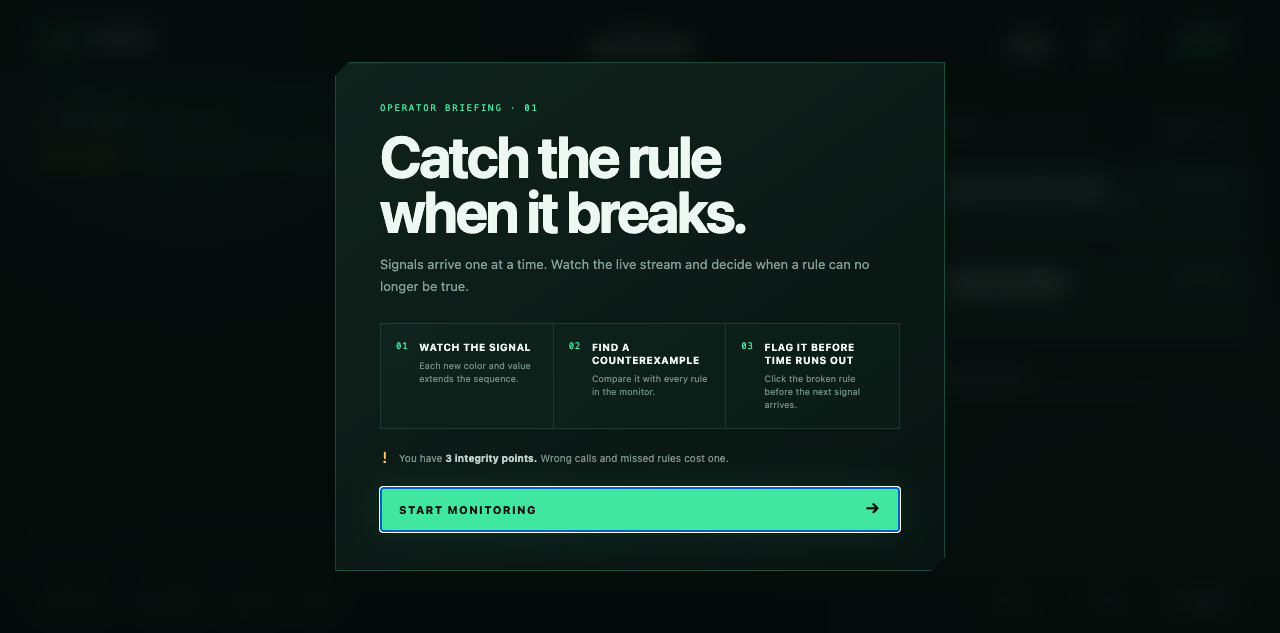
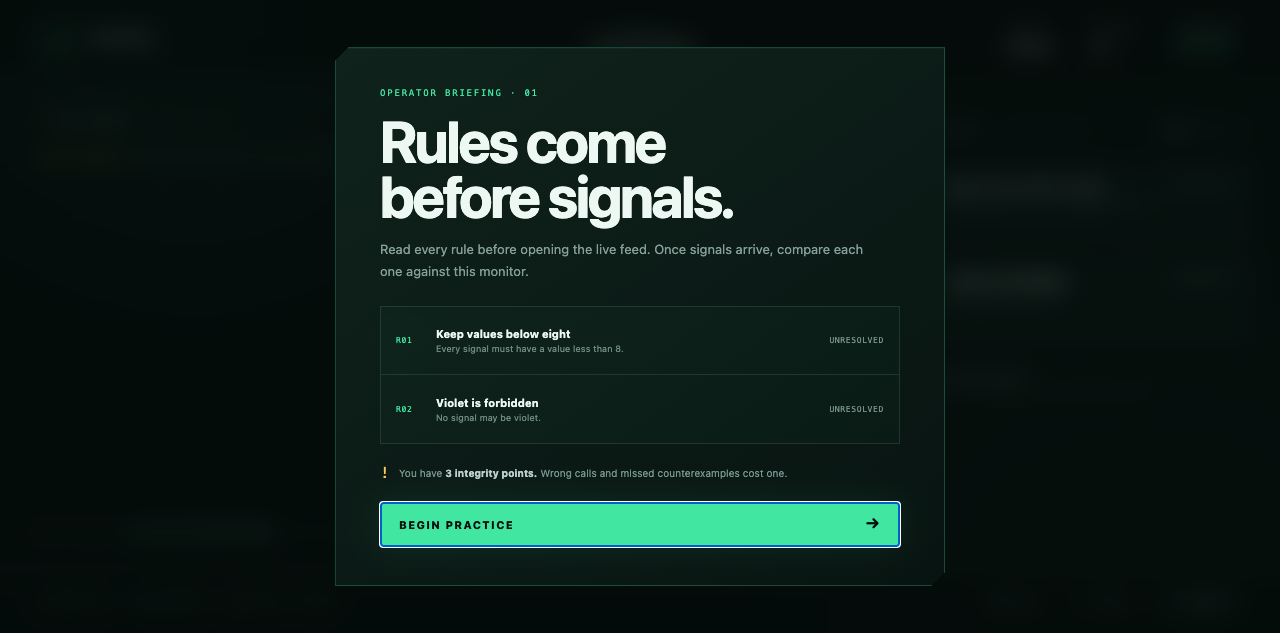
Make counterexamples clickable signals

diff --git a/aug8/src/main.tsx b/aug8/src/main.tsx
@@ -29,6 +29,7 @@ declare global {
     __SIGNAL_SEQUENCE__?: {
       getState: () => PlaytestState;
       flag: (ruleId: string) => boolean;
+      clickSignal: (index: number) => boolean;
       pause: (value?: boolean) => void;
       setSpeed: (multiplier: number) => void;
       advance: () => void;
@@ -71,12 +72,12 @@ function useSound(enabled: boolean) {
   }, [enabled]);
 }
 
-function SignalMark({ signal }: { signal: Signal }) {
+function SignalMark({ signal, onClick, resolution }: { signal: Signal; onClick: () => void; resolution?: Answer }) {
   return (
-    <div className="signal-mark" style={{ '--signal': signal.hex } as CSSVars}>
-      <span className="signal-core">{signal.value}</span>
-      <span className="signal-name">{signal.color}</span>
-    </div>
+    <button className={`signal-mark ${resolution ?? ''}`} style={{ '--signal': signal.hex } as CSSVars} onClick={onClick} aria-label={`${signal.color} ${signal.value}${resolution ? `, ${resolution}` : ''}`}>
+      <span className="signal-core">{resolution === 'caught' ? '✓' : resolution === 'missed' ? '×' : signal.value}</span>
+      <span className="signal-name">{signal.color}{resolution ? ` · ${resolution}` : ''}</span>
+    </button>
   );
 }
 
@@ -95,18 +96,15 @@ interface RuleCardProps {
   prefix: Signal[];
   answered?: Answer;
   showLtl: boolean;
-  onFlag: (rule: Rule) => void;
   index: number;
 }
 
-function RuleCard({ rule, prefix, answered, showLtl, onFlag, index }: RuleCardProps) {
+function RuleCard({ rule, prefix, answered, showLtl, index }: RuleCardProps) {
   const status = rule.evaluate(prefix);
   const visibleStatus = status === 'satisfied' ? 'satisfied' : 'possible';
   return (
-    <button
+    <div
       className={`rule-card ${visibleStatus} ${answered ?? ''}`}
-      onClick={() => onFlag(rule)}
-      disabled={Boolean(answered)}
       style={{ '--delay': `${index * 70}ms` } as CSSVars}
       aria-label={`${rule.title}. ${answered ? 'resolved' : visibleStatus}`}
       data-rule-id={rule.id}
@@ -118,37 +116,72 @@ function RuleCard({ rule, prefix, answered, showLtl, onFlag, index }: RuleCardPr
         {showLtl && <code>{rule.ltl}</code>}
       </span>
       <StatusPill status={status} answered={answered} />
-    </button>
+    </div>
   );
 }
 
 function TutorialPanel({ onStart }: { onStart: () => void }) {
+  const [practiceStarted, setPracticeStarted] = useState(false);
+  const [practiceFlags, setPracticeFlags] = useState<string[]>([]);
+  const practiceRules = levels[0].rules;
+  const practiceComplete = practiceFlags.length === practiceRules.length;
+
+  const flagPracticeRule = (id: string) => {
+    setPracticeFlags((old) => old.includes(id) ? old : [...old, id]);
+  };
+
   return (
     <div className="overlay tutorial-overlay">
       <section className="modal tutorial-modal" role="dialog" aria-modal="true" aria-labelledby="tutorial-title">
-        <span className="eyebrow">OPERATOR BRIEFING · 01</span>
-        <h1 id="tutorial-title">Catch the rule<br />when it breaks.</h1>
-        <p>Signals arrive one at a time. Watch the live stream and decide when a rule can no longer be true.</p>
+        <span className="eyebrow">OPERATOR BRIEFING · {practiceStarted ? '02' : '01'}</span>
+        <h1 id="tutorial-title">{practiceStarted ? <>Catch both<br />counterexamples.</> : <>Rules come<br />before signals.</>}</h1>
+        <p>{practiceStarted
+          ? 'Practice is untimed. Each signal below breaks one rule—click the offending signals.'
+          : 'Read every rule before opening the live feed. Once signals arrive, compare each one against this monitor.'}</p>
 
-        <div className="tutorial-steps">
-          <div className="tutorial-step">
-            <span className="step-number">01</span>
-            <div><b>Watch the signal</b><small>Each new color and value extends the sequence.</small></div>
+        {!practiceStarted ? (
+          <div className="tutorial-rule-preview">
+            {practiceRules.map((rule, index) => (
+              <div className="preview-rule" key={rule.id}>
+                <span>R{String(index + 1).padStart(2, '0')}</span>
+                <div><b>{rule.title}</b><small>{rule.detail}</small></div>
+                <i>UNRESOLVED</i>
+              </div>
+            ))}
           </div>
-          <div className="tutorial-step">
-            <span className="step-number">02</span>
-            <div><b>Find a counterexample</b><small>Compare it with every rule in the monitor.</small></div>
+        ) : (
+          <div className="practice-board">
+            <div className="practice-signals" aria-label="Practice signals">
+              <span>CLICK THE OFFENDING SIGNALS</span>
+              {practiceRules.map((rule, index) => {
+                const caught = practiceFlags.includes(rule.id);
+                const color = index === 0 ? 'cyan' : 'violet';
+                return (
+                  <React.Fragment key={rule.id}>
+                    {index > 0 && <i>+</i>}
+                    <button className={`practice-signal ${color} ${caught ? 'caught' : ''}`} onClick={() => flagPracticeRule(rule.id)} disabled={caught}>
+                      <b>{caught ? '✓' : index === 0 ? '9' : '5'}</b><small>{color.toUpperCase()}{caught ? ' · CAUGHT' : ''}</small>
+                    </button>
+                  </React.Fragment>
+                );
+              })}
+            </div>
+            <div className="practice-rule-reminder">
+              {practiceRules.map((rule, index) => <span key={rule.id}><i>R{String(index + 1).padStart(2, '0')}</i> {rule.title}</span>)}
+            </div>
           </div>
-          <div className="tutorial-step">
-            <span className="step-number">03</span>
-            <div><b>Flag it before time runs out</b><small>Click the broken rule before the next signal arrives.</small></div>
-          </div>
-        </div>
+        )}
 
-        <div className="tutorial-warning"><span>!</span><p>You have <b>3 integrity points.</b> Wrong calls and missed rules cost one.</p></div>
-        <button className="primary-button tutorial-start" onClick={onStart} autoFocus>
-          Start monitoring <span>→</span>
-        </button>
+        <div className="tutorial-warning"><span>{practiceComplete ? '✓' : '!'}</span><p>{practiceStarted ? practiceComplete ? <><b>Training clear.</b> The live sequence will be timed.</> : <>No timer yet—inspect the rules, then <b>click both offending signals.</b></> : <>You have <b>3 integrity points.</b> Wrong calls and missed counterexamples cost one.</>}</p></div>
+        {!practiceStarted ? (
+          <button className="primary-button tutorial-start" onClick={() => setPracticeStarted(true)} autoFocus>
+            Begin practice <span>→</span>
+          </button>
+        ) : (
+          <button className="primary-button tutorial-start" onClick={onStart} disabled={!practiceComplete}>
+            {practiceComplete ? 'Start live sequence' : `Catch ${practiceRules.length - practiceFlags.length} more`} <span>→</span>
+          </button>
+        )}
       </section>
     </div>
   );
@@ -187,7 +220,7 @@ function App() {
   const [muted, setMuted] = useState(false);
   const [speedIndex, setSpeedIndex] = useState(1);
   const [paused, setPaused] = useState(false);
-  const [message, setMessage] = useState('Signal received — click a rule when it becomes impossible');
+  const [message, setMessage] = useState('Signal received — click the signal that breaks a rule');
   const level = levels[levelIndex];
   const playSound = useSound(!muted);
   const live = useRef({ prefix, answered, lives, nextIndex });
@@ -205,7 +238,7 @@ function App() {
     setLives(3);
     setStreak(0);
     setPaused(false);
-    setMessage('Signal received — click a rule when it becomes impossible');
+    setMessage('Signal received — click the signal that breaks a rule');
     setPhase('running');
     if (resetScore) setScore(0);
   }, []);
@@ -256,26 +289,32 @@ function App() {
     return () => window.clearTimeout(timer);
   }, [started, phase, paused, nextIndex, duration, advanceSequence]);
 
-  const flagRule = useCallback((rule: Rule) => {
-    if (!started || phase !== 'running' || answered[rule.id]) return false;
-    const status = rule.evaluate(prefix);
-    if (status === 'broken') {
-      const bonus = 100 + streak * 25;
-      setAnswered((old) => ({ ...old, [rule.id]: 'caught' }));
+  const flagSignal = useCallback((signalIndex: number) => {
+    if (!started || phase !== 'running' || signalIndex < 0 || signalIndex >= prefix.length) return false;
+    const throughSignal = prefix.slice(0, signalIndex + 1);
+    const beforeSignal = prefix.slice(0, signalIndex);
+    const brokenHere = level.rules.filter((rule) =>
+      !answered[rule.id]
+      && rule.evaluate(throughSignal) === 'broken'
+      && rule.evaluate(beforeSignal) !== 'broken');
+
+    if (brokenHere.length) {
+      const bonus = brokenHere.reduce((total, _, index) => total + 100 + (streak + index) * 25, 0);
+      setAnswered((old) => ({ ...old, ...Object.fromEntries(brokenHere.map((rule) => [rule.id, 'caught' as const])) }));
       setScore((old) => old + bonus);
-      setStreak((old) => old + 1);
-      setMessage(`Counterexample caught  +${bonus}`);
+      setStreak((old) => old + brokenHere.length);
+      setMessage(`${brokenHere.length > 1 ? `${brokenHere.length} counterexamples` : 'Counterexample'} caught  +${bonus}`);
       playSound('correct');
       return true;
     }
     const remaining = lives - 1;
     setLives(remaining);
     setStreak(0);
-    setMessage(status === 'satisfied' ? 'Rule is already guaranteed' : 'Rule can still be true');
+    setMessage('That signal breaks no new rule');
     playSound('error');
     if (remaining <= 0) setPhase('gameover');
     return false;
-  }, [answered, lives, phase, playSound, prefix, started, streak]);
+  }, [answered, level.rules, lives, phase, playSound, prefix, started, streak]);
 
   const handleResult = () => {
     if (phase === 'gameover') loadLevel(levelIndex);
@@ -299,8 +338,11 @@ function App() {
       }),
       flag: (ruleId: string) => {
         const rule = level.rules.find(({ id }) => id === ruleId);
-        return rule ? flagRule(rule) : false;
+        if (!rule) return false;
+        const breakingIndex = prefix.findIndex((_, index) => rule.evaluate(prefix.slice(0, index + 1)) === 'broken');
+        return breakingIndex >= 0 ? flagSignal(breakingIndex) : false;
       },
+      clickSignal: flagSignal,
       pause: (value?: boolean) => setPaused((old) => value ?? !old),
       setSpeed: (multiplier: number) => {
         const closest = SPEEDS.reduce((best, speed, index) =>
@@ -315,7 +357,7 @@ function App() {
       start: () => setStarted(true),
     });
     window.__SIGNAL_SEQUENCE__ = api;
-  }, [advanceSequence, answered, flagRule, level, levelIndex, lives, loadLevel, paused, phase, prefix, score, started, streak]);
+  }, [advanceSequence, answered, flagSignal, level, levelIndex, lives, loadLevel, paused, phase, prefix, score, started, streak]);
 
   const statuses = useMemo(() => level.rules.map((rule) => rule.evaluate(prefix)), [level, prefix]);
   const unresolvedCount = statuses.filter((status, index) =>
@@ -348,7 +390,17 @@ function App() {
                   {i > 0 && <span className="timeline-link" />}
                   <div className="signal-slot">
                     <span className="signal-order">t{i}</span>
-                    <SignalMark signal={signal} />
+                    <SignalMark
+                      signal={signal}
+                      onClick={() => flagSignal(i)}
+                      resolution={level.rules.some((rule) => {
+                        const breaksHere = rule.evaluate(prefix.slice(0, i + 1)) === 'broken' && rule.evaluate(prefix.slice(0, i)) !== 'broken';
+                        return breaksHere && answered[rule.id] === 'caught';
+                      }) ? 'caught' : level.rules.some((rule) => {
+                        const breaksHere = rule.evaluate(prefix.slice(0, i + 1)) === 'broken' && rule.evaluate(prefix.slice(0, i)) !== 'broken';
+                        return breaksHere && answered[rule.id] === 'missed';
+                      }) ? 'missed' : undefined}
+                    />
                   </div>
                 </React.Fragment>
               ))}
@@ -372,10 +424,10 @@ function App() {
           </div>
           <div className="rule-list">
             {level.rules.map((rule, index) => (
-              <RuleCard key={rule.id} rule={rule} prefix={prefix} answered={answered[rule.id]} showLtl={showLtl} onFlag={flagRule} index={index} />
+              <RuleCard key={rule.id} rule={rule} prefix={prefix} answered={answered[rule.id]} showLtl={showLtl} index={index} />
             ))}
           </div>
-          <div className="monitor-tip"><span>!</span><p><b>See a counterexample?</b> Click the impossible rule before the next signal arrives.</p></div>
+          <div className="monitor-tip"><span>!</span><p><b>See a counterexample?</b> Click the offending signal before the next one arrives.</p></div>
         </aside>
       </section>
 

diff --git a/aug8/src/styles.css b/aug8/src/styles.css
@@ -63,7 +63,12 @@ body::before {
 .timeline { min-width: 100%; padding: 50px 18px 30px; display: flex; align-items: center; justify-content: center; }
 .signal-slot { position: relative; flex: 0 0 84px; animation: signal-in .38s cubic-bezier(.2,.85,.3,1.25) both; }
 .signal-order { position: absolute; top: -29px; left: 0; width: 100%; text-align: center; color: #48645c; font: 10px 'DM Mono', monospace; }
-.signal-mark { --signal: #41e6a1; display: flex; flex-direction: column; align-items: center; gap: 12px; }
+.signal-mark { --signal: #41e6a1; padding: 0; display: flex; flex-direction: column; align-items: center; gap: 12px; border: 0; background: transparent; cursor: pointer; transition: transform .16s; }
+.signal-mark:hover { transform: translateY(-4px); }
+.signal-mark:focus-visible { outline: 1px solid var(--green); outline-offset: 7px; }
+.signal-mark.caught .signal-core { color: #062117; box-shadow: 0 0 0 5px rgba(65,230,161,.15), 0 0 32px rgba(65,230,161,.35); }
+.signal-mark.missed .signal-core { color: #220906; background: var(--red); box-shadow: 0 0 0 5px rgba(255,111,97,.12); }
+.signal-mark.missed .signal-name { color: var(--red); }
 .signal-core { position: relative; display: grid; place-items: center; width: 70px; height: 70px; color: #06110e; background: var(--signal); border-radius: 50%; font: 800 25px 'Manrope', sans-serif; box-shadow: 0 0 0 6px rgba(255,255,255,.018), 0 0 30px color-mix(in srgb, var(--signal) 24%, transparent); }
 .signal-core::before { content: ''; position: absolute; inset: 7px; border: 1px solid rgba(0,0,0,.14); border-radius: inherit; }
 .signal-core::after { content: ''; position: absolute; top: 9px; left: 15px; width: 19px; height: 8px; border-radius: 50%; background: rgba(255,255,255,.28); transform: rotate(-25deg); }
@@ -86,9 +91,8 @@ body::before {
 .ltl-toggle input:checked + span { background: rgba(65,230,161,.25); }
 .ltl-toggle input:checked + span::after { transform: translateX(13px); background: var(--green); }
 .rule-list { display: flex; flex-direction: column; gap: 10px; }
-.rule-card { position: relative; width: 100%; min-height: 84px; padding: 15px 14px; display: grid; grid-template-columns: 29px 1fr auto; gap: 10px; align-items: start; text-align: left; border: 1px solid var(--line); border-radius: 4px; background: rgba(16, 34, 29, .78); cursor: pointer; transition: border .2s, background .2s, transform .15s; animation: card-in .35s var(--delay) both; overflow: hidden; }
+.rule-card { position: relative; width: 100%; min-height: 84px; padding: 15px 14px; display: grid; grid-template-columns: 29px 1fr auto; gap: 10px; align-items: start; text-align: left; border: 1px solid var(--line); border-radius: 4px; background: rgba(16, 34, 29, .78); animation: card-in .35s var(--delay) both; overflow: hidden; }
 .rule-card::before { content: ''; position: absolute; left: 0; top: 12px; bottom: 12px; width: 2px; background: #425e56; }
-.rule-card:not(:disabled):hover { transform: translateX(-3px); border-color: rgba(255,255,255,.22); background: rgba(22, 44, 37, .9); }
 .rule-index { color: #4e6b63; font: 9px 'DM Mono', monospace; padding-top: 3px; }
 .rule-copy { display: flex; flex-direction: column; gap: 3px; min-width: 0; }
 .rule-copy strong { font-size: 13px; letter-spacing: .01em; }
@@ -98,11 +102,11 @@ body::before {
 .status-pill i { width: 5px; height: 5px; border-radius: 50%; background: #718981; }
 .status-pill.satisfied, .status-pill.flagged { color: var(--green); }.status-pill.satisfied i,.status-pill.flagged i { background: var(--green); box-shadow: 0 0 7px var(--green); }
 .status-pill.broken, .status-pill.missed { color: var(--red); }.status-pill.broken i,.status-pill.missed i { background: var(--red); box-shadow: 0 0 7px var(--red); }
-.rule-card.broken:not(:disabled) { border-color: rgba(255,111,97,.75); background: rgba(65,26,24,.58); animation: danger-pulse .85s infinite alternate; }
+.rule-card.broken { border-color: rgba(255,111,97,.75); background: rgba(65,26,24,.58); animation: danger-pulse .85s infinite alternate; }
 .rule-card.broken::before, .rule-card.missed::before { background: var(--red); }
 .rule-card.satisfied::before, .rule-card.caught::before { background: var(--green); }
-.rule-card:disabled { cursor: default; opacity: .64; }
-.rule-card.caught { opacity: .8; border-color: rgba(65,230,161,.2); }
+.rule-card.caught, .rule-card.missed { opacity: .72; }
+.rule-card.caught { border-color: rgba(65,230,161,.2); }
 .monitor-tip { display: flex; gap: 10px; margin-top: 16px; padding: 12px; border-top: 1px solid var(--line); color: #607c74; }
 .monitor-tip > span { color: var(--amber); font: 500 13px 'DM Mono'; }
 .monitor-tip p { margin: 0; font-size: 9px; line-height: 1.55; }.monitor-tip b { display: block; color: #a2b9b2; }
@@ -129,18 +133,33 @@ body::before {
 .tutorial-modal .eyebrow { margin-bottom: 16px; }
 .tutorial-modal h1 { font-size: clamp(38px, 6vw, 58px); line-height: .96; }
 .tutorial-modal > p { max-width: 490px; }
-.tutorial-steps { margin: 26px 0 20px; display: grid; grid-template-columns: repeat(3, 1fr); border: 1px solid var(--line); background: rgba(65,230,161,.025); }
-.tutorial-step { min-width: 0; padding: 17px 15px; display: flex; gap: 11px; border-right: 1px solid var(--line); }
-.tutorial-step:last-child { border-right: 0; }
+.tutorial-rule-preview { margin: 24px 0 20px; border: 1px solid var(--line); background: rgba(65,230,161,.025); }
+.preview-rule { min-height: 68px; padding: 13px 15px; display: grid; grid-template-columns: 30px 1fr auto; gap: 10px; align-items: center; border-bottom: 1px solid var(--line); }
+.preview-rule:last-child { border-bottom: 0; }
+.preview-rule > span, .preview-rule > i { color: var(--green); font: 500 8px 'DM Mono', monospace; font-style: normal; letter-spacing: .08em; }
+.preview-rule > i { color: #779189; }
+.preview-rule div { display: flex; flex-direction: column; gap: 3px; }
+.preview-rule b { font-size: 11px; }
+.preview-rule small { color: #708d84; font-size: 9px; }
+.practice-board { margin: 22px 0 18px; border: 1px solid var(--line); background: rgba(65,230,161,.025); }
+.practice-signals { min-height: 142px; padding: 17px; display: flex; justify-content: center; align-items: center; gap: 24px; }
+.practice-signals > span { align-self: flex-start; margin-right: auto; color: #779189; font: 8px 'DM Mono', monospace; letter-spacing: .1em; }
+.practice-signals > i { color: #49675f; font-style: normal; }
+.practice-signal { width: 76px; flex: 0 0 76px; padding: 0; display: flex; flex-direction: column; align-items: center; gap: 6px; border: 0; background: transparent; cursor: pointer; }
+.practice-signal b { width: 58px; height: 58px; display: grid; place-items: center; border-radius: 50%; color: #07100e; font-size: 21px; transition: .18s; }
+.practice-signal:hover b { transform: translateY(-3px); box-shadow: 0 0 24px rgba(255,255,255,.16); }
+.practice-signal.cyan b { background: #35d9d0; }.practice-signal.violet b { background: #9b7cff; }
+.practice-signal small { color: #91aaa3; font: 8px 'DM Mono', monospace; white-space: nowrap; }
+.practice-signal.caught b { background: var(--green); }.practice-signal:disabled { cursor: default; }
+.practice-rule-reminder { padding: 10px 14px; display: flex; justify-content: center; gap: 22px; border-top: 1px solid var(--line); color: #829b94; font-size: 9px; }
+.practice-rule-reminder i { color: var(--green); font: 8px 'DM Mono', monospace; font-style: normal; }
 .step-number { flex: 0 0 auto; color: var(--green); font: 500 9px 'DM Mono', monospace; letter-spacing: .08em; }
-.tutorial-step div { display: flex; flex-direction: column; gap: 5px; }
-.tutorial-step b { font-size: 10px; line-height: 1.3; text-transform: uppercase; letter-spacing: .05em; }
-.tutorial-step small { color: #708d84; font-size: 9px; line-height: 1.45; }
 .tutorial-warning { margin-bottom: 20px; display: flex; align-items: center; gap: 10px; color: #78958c; }
 .tutorial-warning > span { color: var(--amber); font: 500 15px 'DM Mono', monospace; }
 .tutorial-warning p { margin: 0; font-size: 10px; }
 .tutorial-warning b { color: #bfd1cc; }
 .tutorial-start { box-shadow: 0 0 32px rgba(65,230,161,.1); }
+.primary-button:disabled { border-color: #29463e; background: #172a25; color: #5e7770; cursor: default; box-shadow: none; }
 
 @keyframes blink { 50% { opacity: .35; } }
 @keyframes signal-in { from { opacity: 0; transform: translateY(-22px) scale(.75); } }
@@ -159,7 +178,8 @@ body::before {
   .topbar { height: auto; min-height: 72px; padding: 12px 16px; }.brand div { display: none; }.scoreboard { gap: 9px; }.scoreboard > div { min-width: 43px; }.scoreboard b { font-size: 12px; }.integrity { display: none; }
   .stream-panel,.rules-panel { padding: 22px 14px; }.timeline { justify-content: flex-start; }.signal-slot { flex-basis: 70px; }.signal-core { width: 58px; height: 58px; font-size: 20px; }.timeline-link { min-width: 10px; }
   .rule-card { grid-template-columns: 24px 1fr; }.status-pill { grid-column: 2; }.controls,.legend { width: 100%; justify-content: center; gap: 8px; }.modal { padding: 30px 24px; }
-  .tutorial-steps { grid-template-columns: 1fr; }.tutorial-step { padding: 12px; border-right: 0; border-bottom: 1px solid var(--line); }.tutorial-step:last-child { border-bottom: 0; }
+  .preview-rule { grid-template-columns: 25px 1fr; }.preview-rule > i { grid-column: 2; }
+  .practice-signals { gap: 10px; padding: 14px 8px; }.practice-signals > span { display: none; }.practice-rule-reminder { flex-direction: column; gap: 5px; }
 }
 
 @media (prefers-reduced-motion: reduce) {

diff --git a/aug8/src/gameData.ts b/aug8/src/gameData.ts
@@ -51,7 +51,7 @@ export const levels: Level[] = [
     name: 'Stay in bounds',
     kicker: 'SAFETY PROTOCOL',
     lesson: 'Always means every signal must obey the rule. One counterexample breaks it forever.',
-    hint: 'Watch each new signal. Flag a rule as soon as you see its first counterexample.',
+    hint: 'Watch each new signal. Click it as soon as it becomes a counterexample to any rule.',
     interval: 2800,
     rules: [
       {
@@ -79,7 +79,7 @@ export const levels: Level[] = [
     name: 'Promises & next steps',
     kicker: 'FUTURE CONDITIONS',
     lesson: 'Eventually becomes guaranteed once its event occurs. Next is decided by the second signal.',
-    hint: 'Not every rule will break. Satisfied promises lock in automatically—only flag broken rules.',
+    hint: 'Not every rule will break. Satisfied promises lock in—only click signals that break a rule.',
     interval: 2600,
     rules: [
       {
